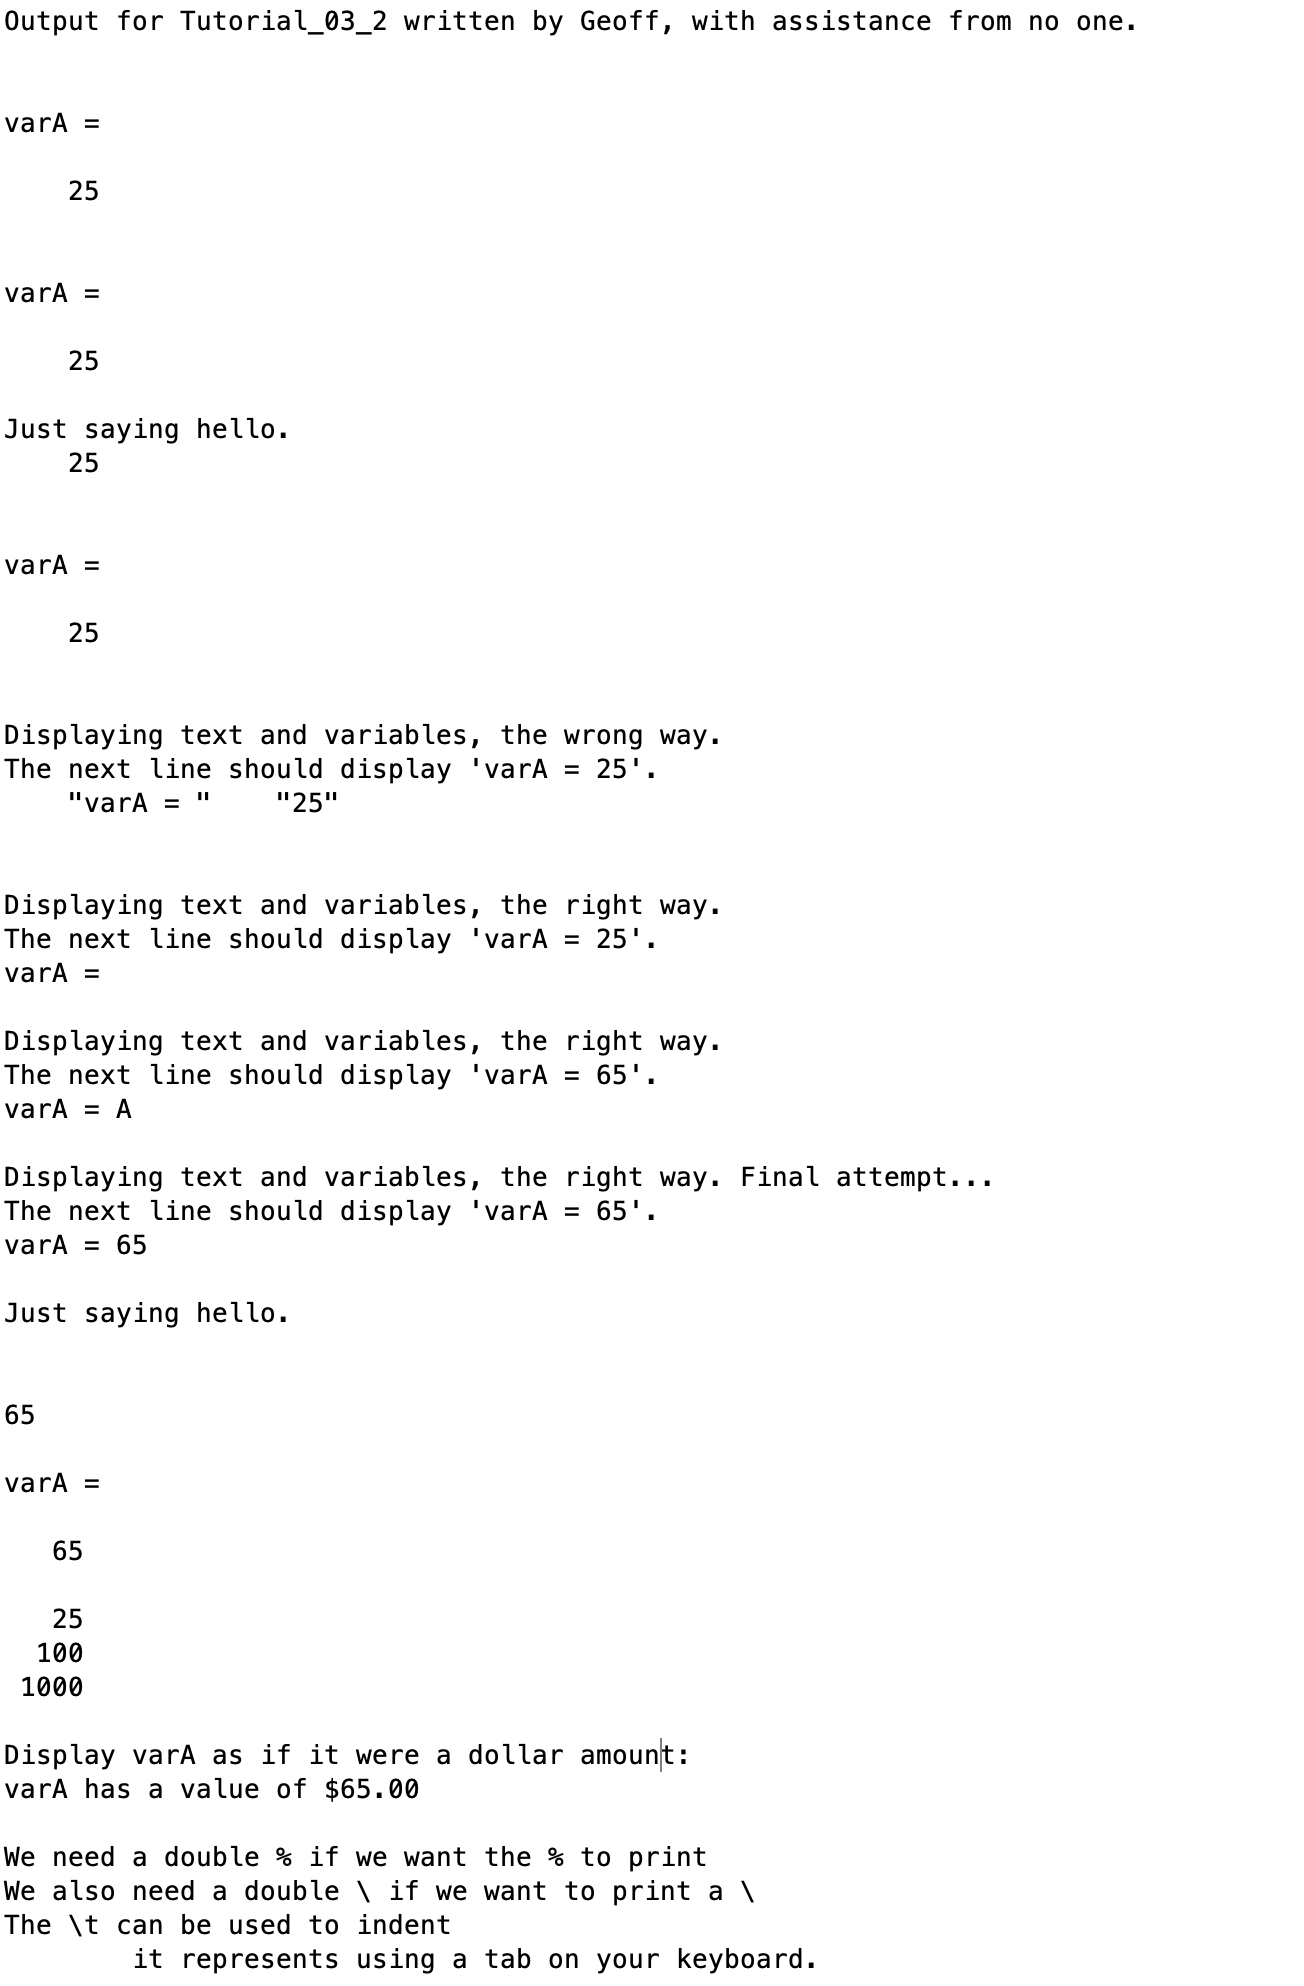
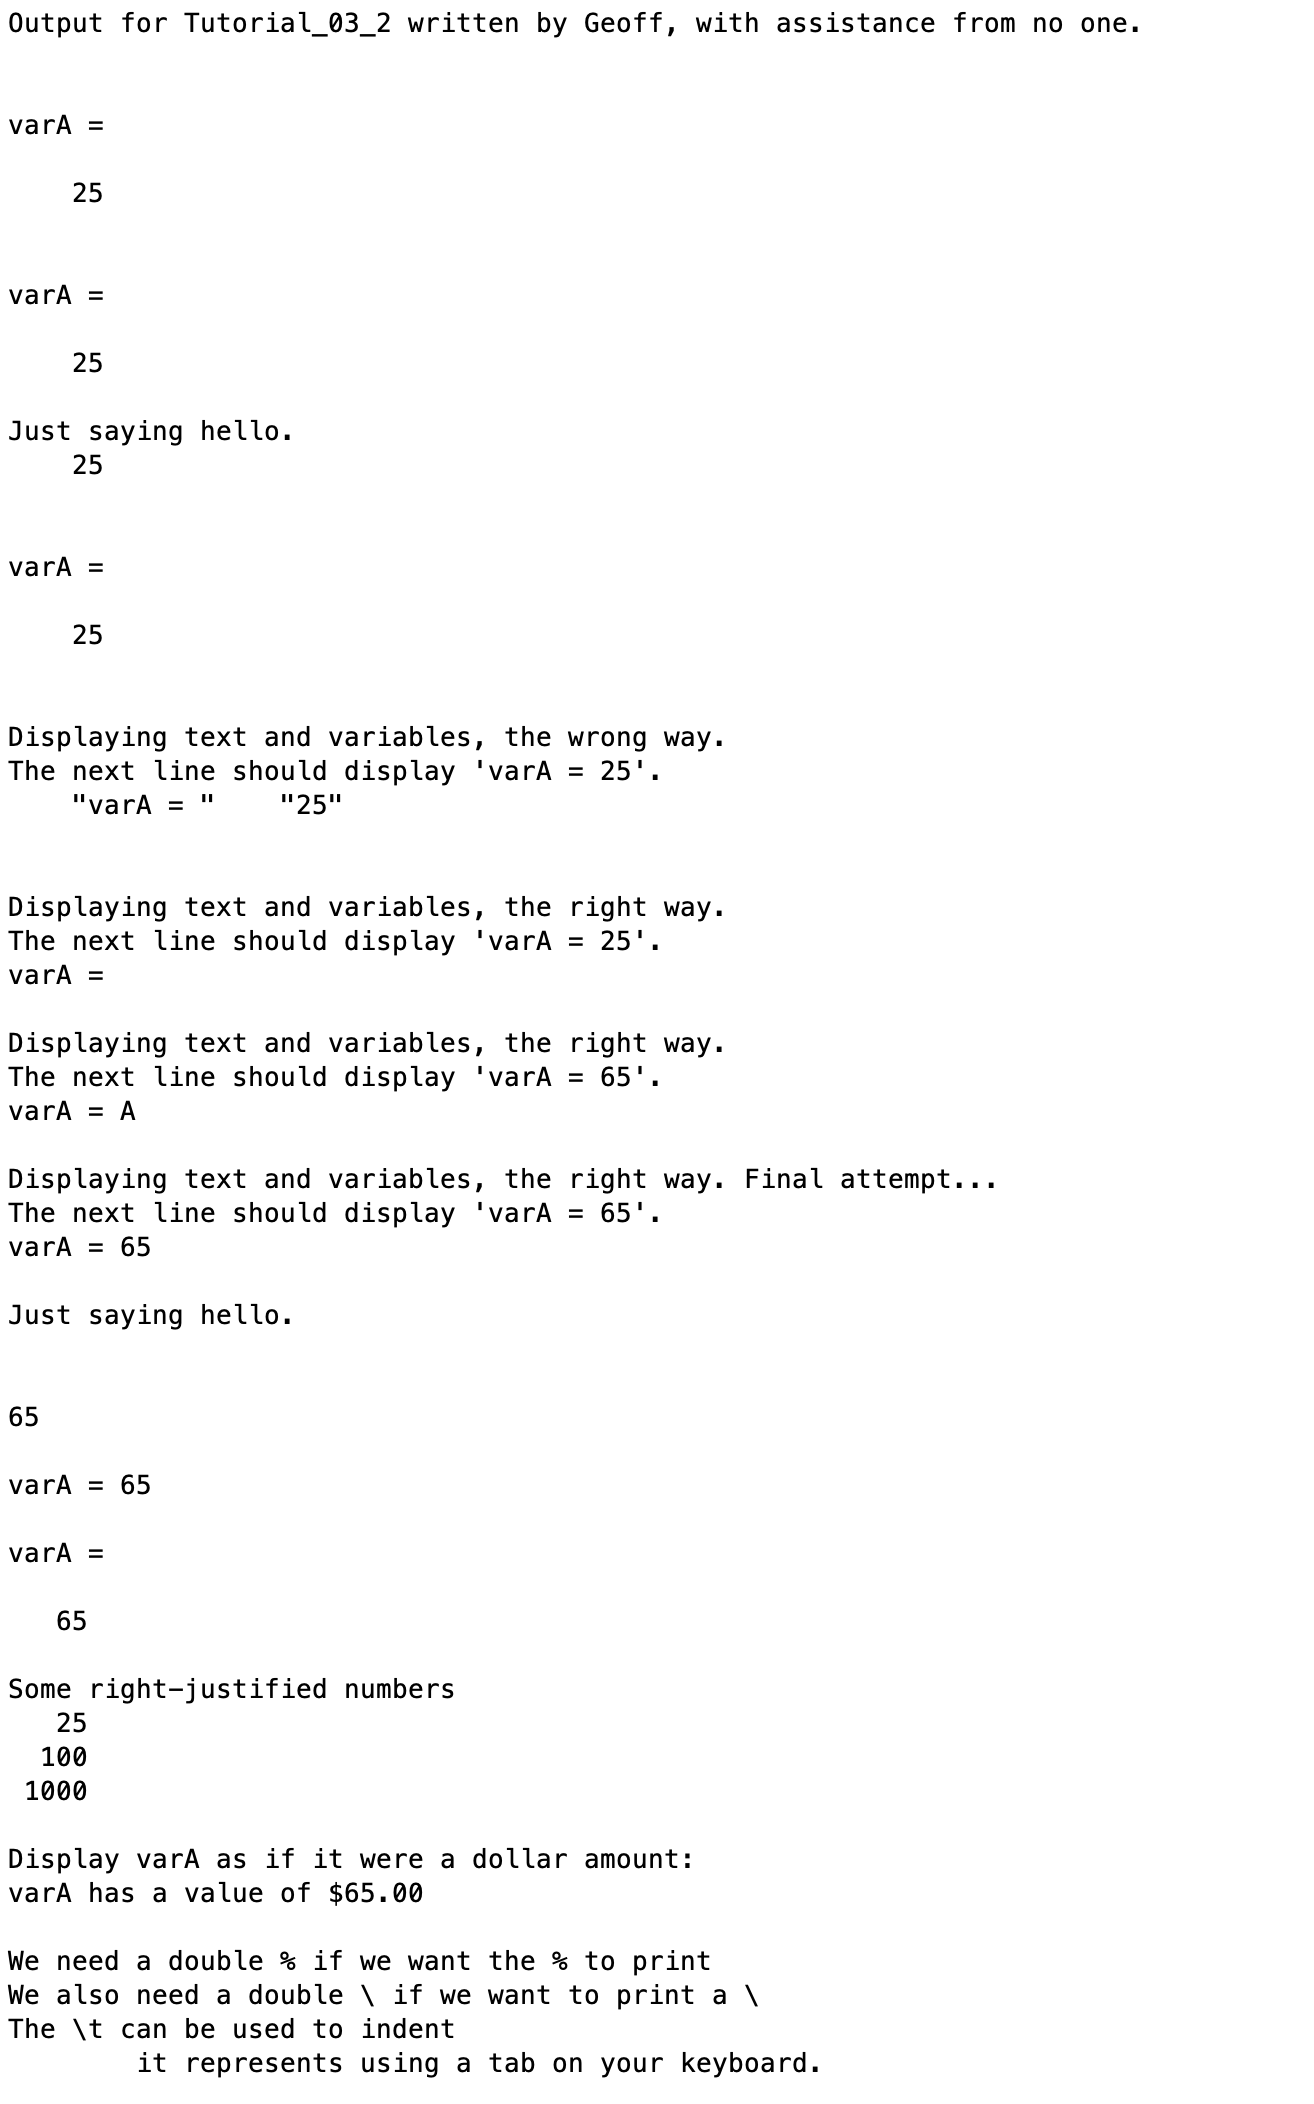
Fixed typo in tutorial 2

diff --git a/Week 3 - Input Output & Control Structures/Tutorial_03_2.md b/Week 3 - Input Output & Control Structures/Tutorial_03_2.md
@@ -111,7 +111,7 @@ So now, what MATLAB does is takes our string `"%i\n\n"` and replaces `%i` with t
 ### Text and Values
 Printfing text and values is pretty straight forward, we just add text to the format specification like so.
 ```Matlab
-fprintf("varA = %i\n\n")
+fprintf("varA = %i\n\n", varA)
 ```
 Or if we wanted to output like our `disp` example above, we can do it all in one line with the power of the `\n` character.
 ```Matlab
@@ -120,7 +120,7 @@ fprintf("varA =\n\n   %i\n\n", varA)
 #### Field Width and Precision
 What makes format specifiers even more powerful is the ability to specify the **field width** and **precision** (precision only applies to floating point values). Field width is a number that is declared immediately following the `%` and specifies how many character spaces a value will take up. This is most useful with printing a list where you want all of the values to be right-justified so they line up nicely. Here's an example where I'll supply hardcoded values.
 ```
-fprintf("Some right-justified numbers")
+fprintf("Some right-justified numbers\n")
 fprintf("%5i\n", 25)
 fprintf("%5i\n", 100)
 fprintf("%5i\n\n", 1000)
